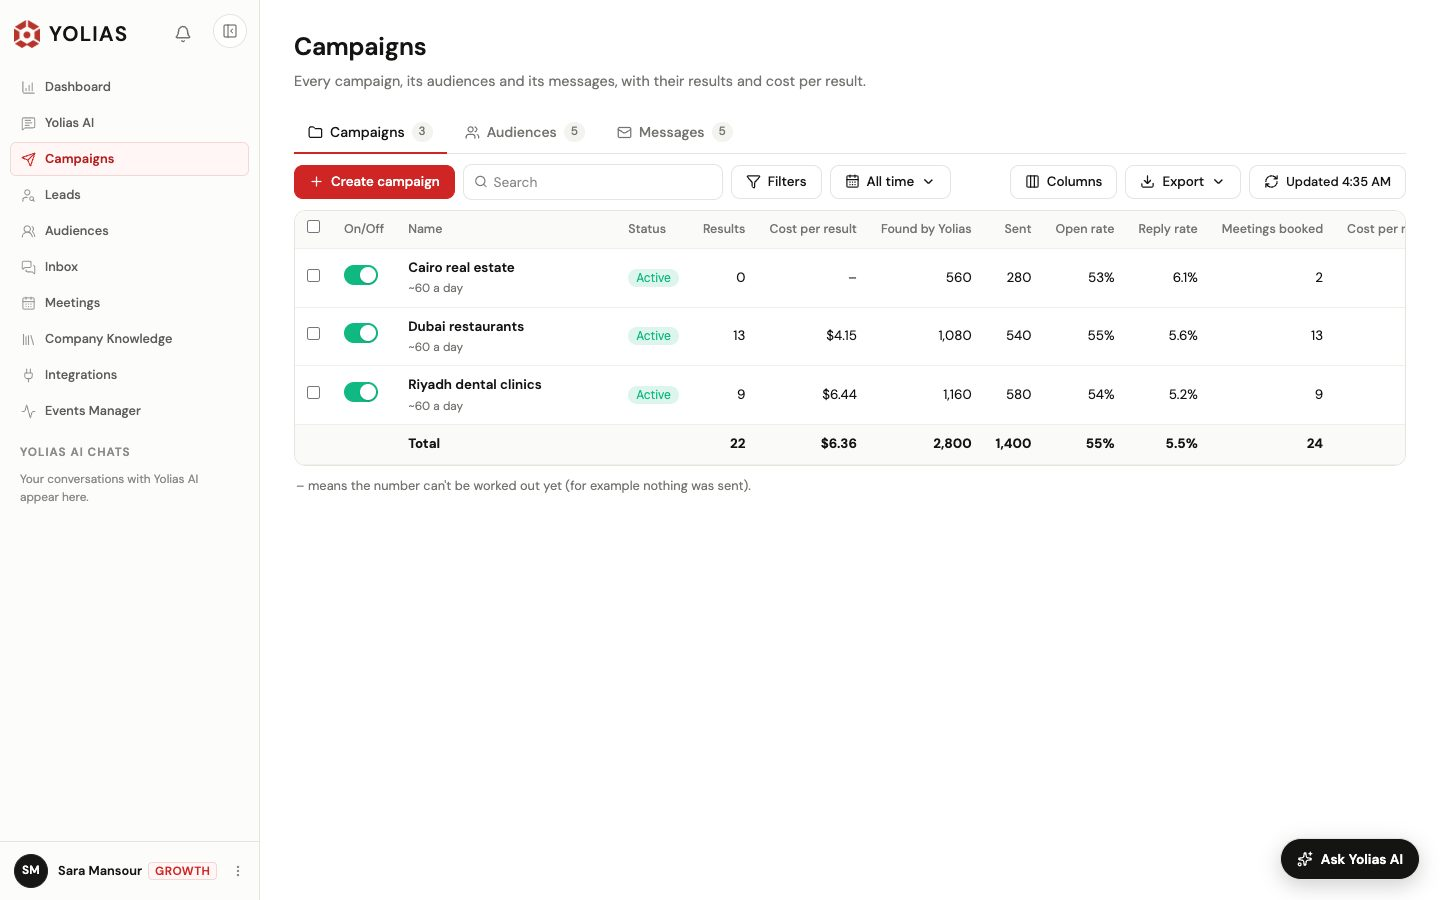
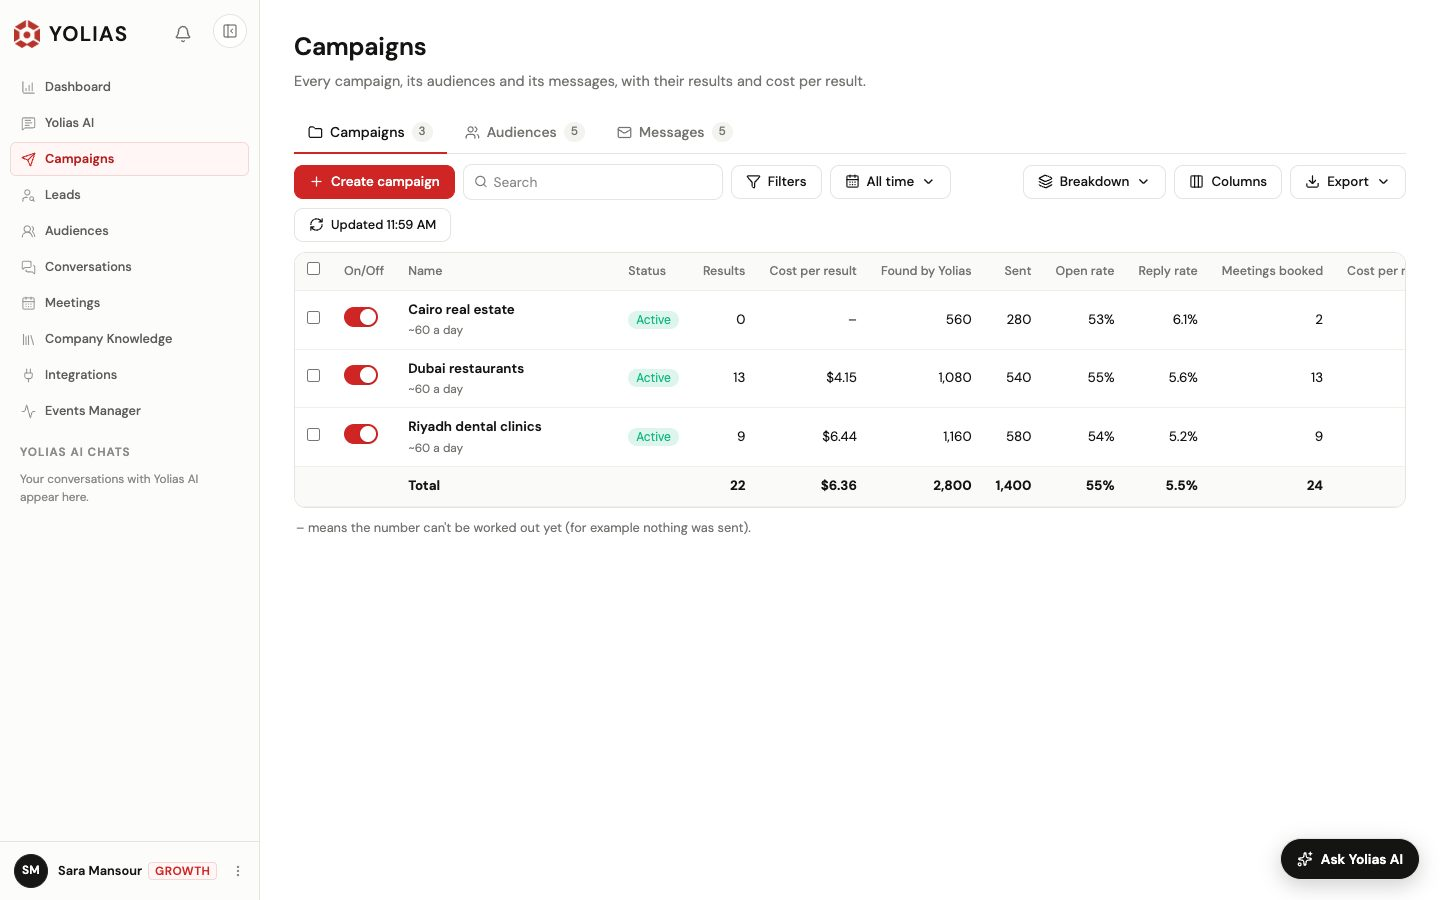
Sidebar names, phone field layout, fresh product screens

diff --git a/Yolias/lib/i18n/dictionaries/ag-ar.ts b/Yolias/lib/i18n/dictionaries/ag-ar.ts
@@ -262,7 +262,7 @@ export const agAr: typeof agEn = {
       title: "يولياس AI", newChat: "محادثة جديدة", full: "فتح بالحجم الكامل",
       suggestions: ["كيف كان أداء حملاتي الأسبوع الماضي؟", "أي جمهور يجلب أرخص اجتماعات؟", "اقترح جمهورًا جديدًا لأفضل حملة عندي", "ما الذي يحتاجني اليوم؟"],
     },
-    nav: { yolias: "يولياس", acquisition: "الاستحواذ", engagement: "التفاعل", workspace: "مساحة العمل", inbox: "المحادثات", leads: "العملاء المحتملون" },
+    nav: { yolias: "يولياس", acquisition: "اكتساب العملاء", engagement: "التفاعل", workspace: "مساحة العمل", inbox: "المحادثات", leads: "العملاء المحتملون" },
     meet: {
       brief: "الملخص التحضيري", happened: "هل تم الاجتماع؟", held: "تم", visitsTab: "زيارات الرابط",
       visits: {

diff --git a/Yolias/app/globals.css b/Yolias/app/globals.css
@@ -2661,6 +2661,7 @@ html.ay-docked .main-area { margin-inline-end: 400px; transition: margin .2s; }
 .onb-chip input { accent-color: var(--red); }
 .sr-only { position: absolute; width: 1px; height: 1px; padding: 0; margin: -1px; overflow: hidden; clip: rect(0, 0, 0, 0); white-space: nowrap; border: 0; }
 /* Phone: country code picker + number (owner, 2026-11-03). */
-.phone-field { display: flex; gap: 6px; width: 260px; max-width: 100%; }
-.phone-field .form-select { width: 108px; flex: none; }
+.phone-field { display: flex; gap: 6px; width: 320px; max-width: 100%; }
+.phone-field .form-select { width: 128px; flex: none; }
+.phone-field .form-input { min-width: 120px; }
 .phone-field .form-input { flex: 1; min-width: 0; }

diff --git a/Yolias/lib/i18n/dictionaries/ag-en.ts b/Yolias/lib/i18n/dictionaries/ag-en.ts
@@ -263,7 +263,7 @@ export const agEn = {
       title: "Yolias AI", newChat: "New chat", full: "Open full size",
       suggestions: ["How did my campaigns do last week?", "Which audience brings the cheapest meetings?", "Suggest a new audience for my best campaign", "What needs me today?"],
     },
-    nav: { yolias: "Yolias", acquisition: "Acquisition", engagement: "Engagement", workspace: "Workspace", inbox: "Inbox", leads: "Leads" },
+    nav: { yolias: "Yolias", acquisition: "Acquisition", engagement: "Engagement", workspace: "Workspace", inbox: "Conversations", leads: "Leads" },
     meet: {
       brief: "Brief", happened: "Did it happen?", held: "It happened", visitsTab: "Link visits",
       visits: {

diff --git a/Yolias/components/app/SettingsModal.tsx b/Yolias/components/app/SettingsModal.tsx
@@ -363,7 +363,7 @@ function AccountTab({ data }: { data: ShellData }) {
         <div className="phone-field" dir="ltr">
           <select className="form-select" aria-label={a.phoneCountry} value={dial} onChange={(e) => { setDial(e.target.value); if (phone) savePhone(e.target.value, phone); }}>
             <option value="">+</option>
-            {dialCountries(locale).map((c) => <option key={c.code} value={c.code}>{`${flagEmoji(c.code)} ${c.name} +${DIAL_CODES[c.code]}`}</option>)}
+            {dialCountries(locale).map((c) => <option key={c.code} value={c.code}>{`${flagEmoji(c.code)} +${DIAL_CODES[c.code]} ${c.name}`}</option>)}
           </select>
           <input
             type="tel"
